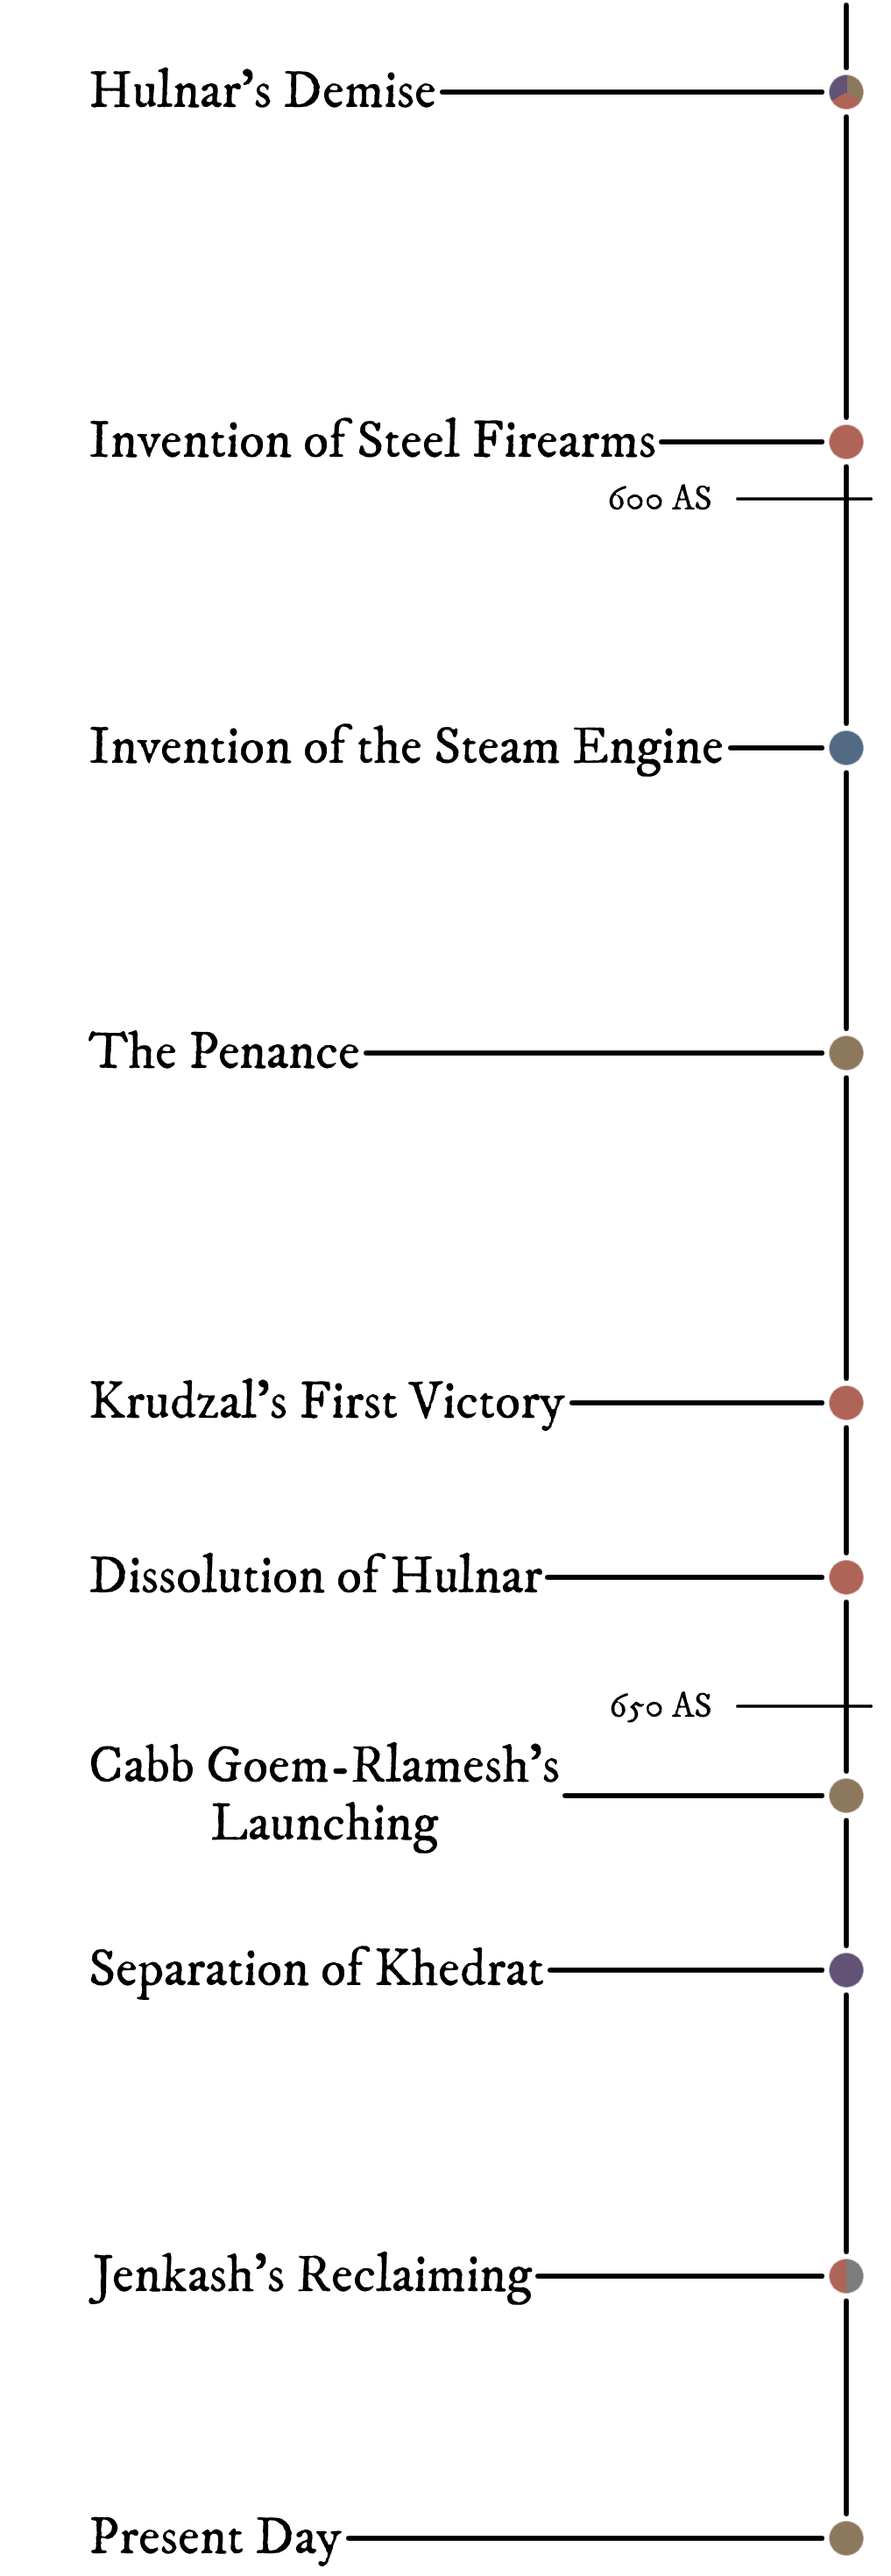
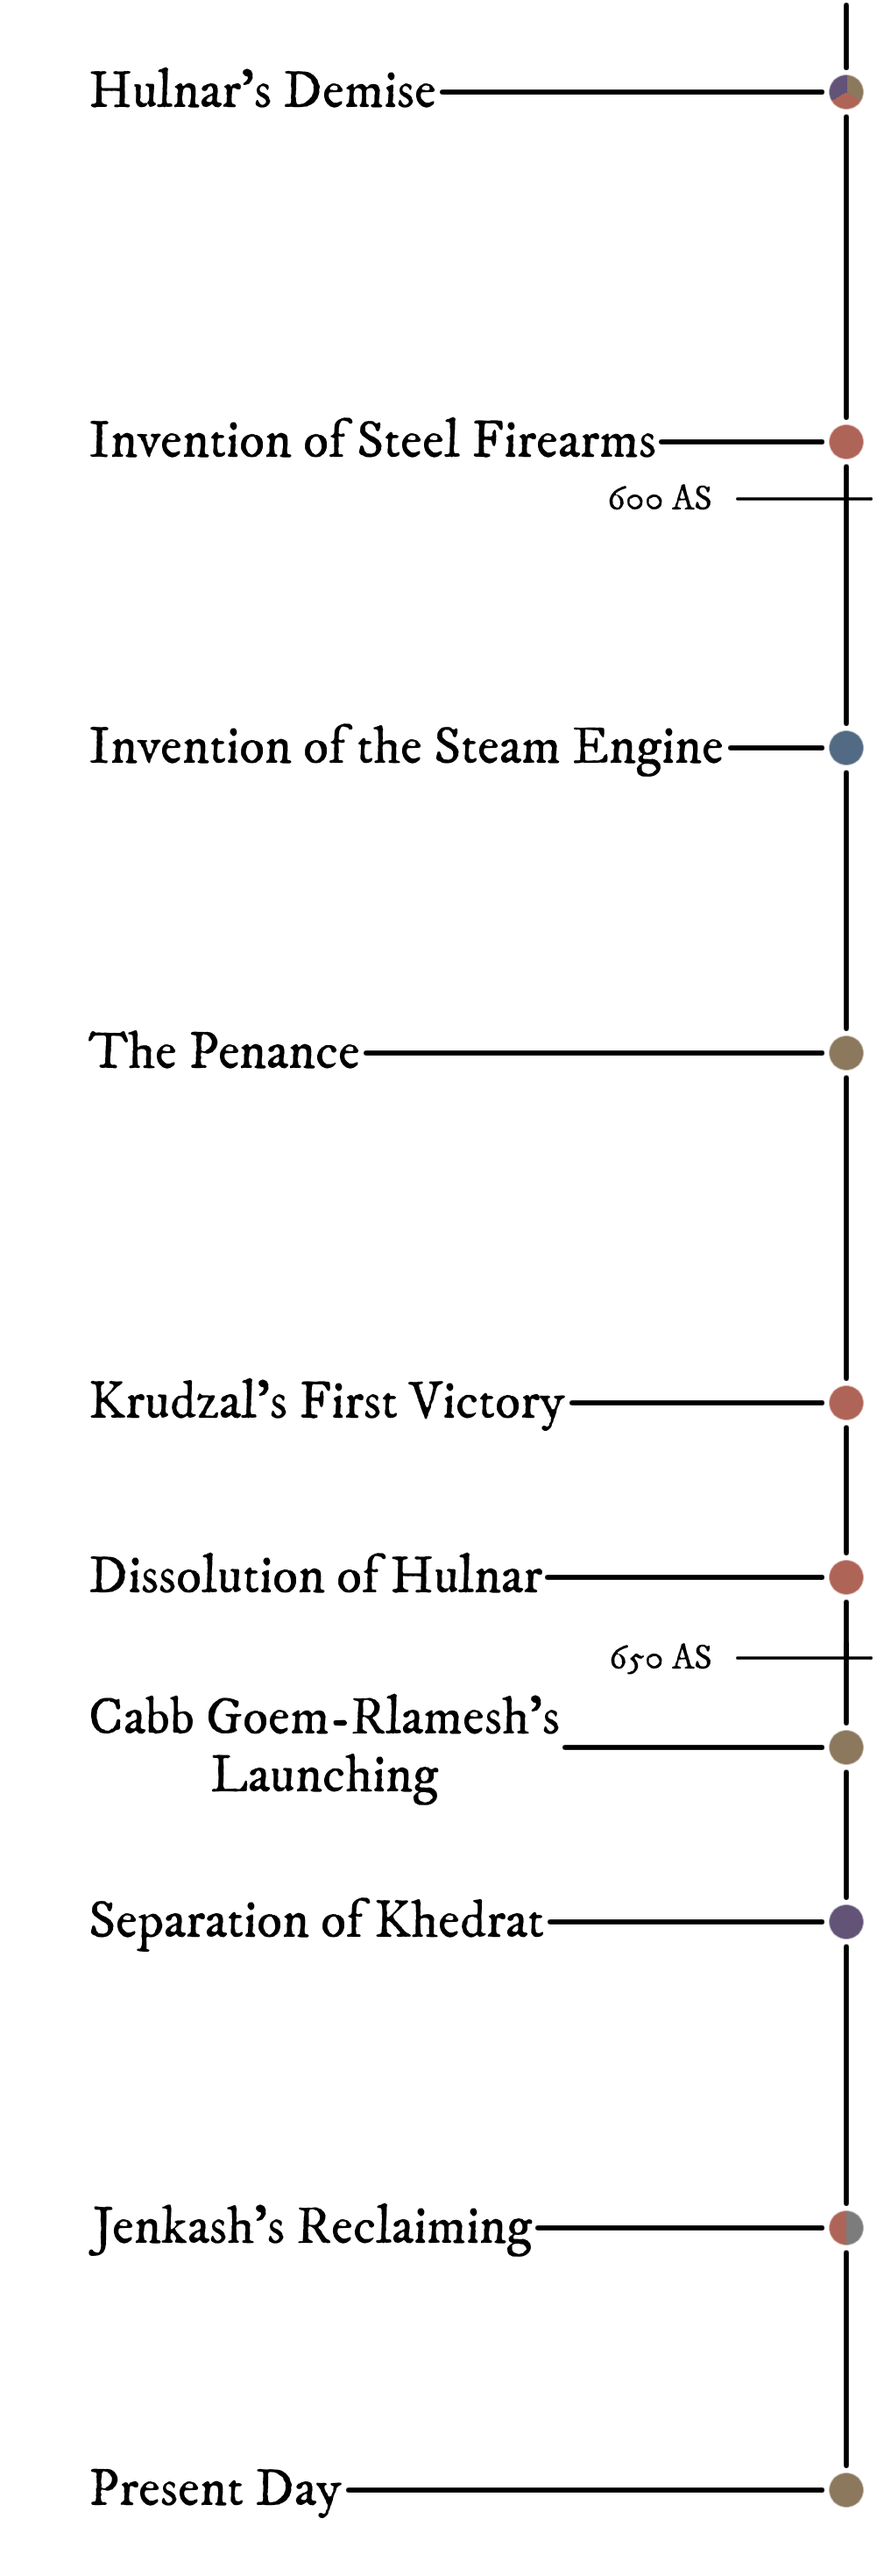
Attended more TODOs (this is my life now)

diff --git a/01yuadrem/14beryl_sea.tex b/01yuadrem/14beryl_sea.tex
@@ -17,9 +17,8 @@ The jungle is also inhabited by large and dangerous beasts that threaten the unp
 East to Drejeck is the Fog Gorge, a well-forested canyon island ever enveloped in fog.
 While primitive, the tribes of Gannag are far from free-living, and are bound by strong shackles to their superiors.
 While naenks are used to this hierarchical system, many of the more intelligent tsaneks grow tired of it over time.
-A hundred years ago, a group of tsaneks went as far as to establish their own independent tribe of Na'ane in the misty island, abandoning their brethren in favor of an unrestrained lifestyle.
+A hundred and fifty years ago, a group of tsaneks went as far as to establish their own independent tribe of Na'ane in the misty island, abandoning their brethren in favor of an unrestrained lifestyle.
 Freely they carry on with their ceremonies and rituals, protected from their neighbors by mist and stone.
-% Na'ane was founded on 582 AS.
 
 % Qul archipelago
 Further east one finds the Qul archipelago, a clump of islands that collectively served as the birth bed of the Jenkashian empire.
@@ -44,7 +43,7 @@ This everlasting conflict was only stopped by Jenkash, who in their thirst for c
 \begin{figure}[t]
     \centering
     \includegraphics[width=0.46\textwidth]{01yuadrem/img/14fog_gorge.png}
-    \caption*{\centering \large{\textbf{The Fog Gorge}}} % TODO. Check if I can change the font of the caption
+    \caption*{\centering \large{\textbf{The Fog Gorge}}}
 \end{figure}
 
 % Ironlakes Island & Zashlath savanna

diff --git a/01yuadrem/30history.tex b/01yuadrem/30history.tex
@@ -5,8 +5,6 @@
 
 \section{History} \label{sec::history}
 % History is known in detail thanks to the dutiful oths that recorded it under Tol's guidance.
-% TODO. Take a look at the whole cultures and Yuadrem pages and fix years and nation names!
-% TODO. Update the picture in the last page, it doesn't fit with the info anymore.
 
 \subsection*{Ancient History}
 \subparagraph{682 BS --- First Communion} In the middle of the Dead Sea, the et E'ukarilth merges with a deceased higher one embryo.
@@ -219,6 +217,6 @@ Abandoning old traditions, the new countries of Viphogher and Dnomit embrace dem
 \subparagraph{671 AS --- Jenkash's Reclaiming} Forced by Gannag to halt their conquest, the Jenkashian empire focused entirely on re-taking the Qul Archipelago.
 Savage battles are fought, and to date they've managed to reclaim most of their lost homeland.
 
-\subparagraph{672 AS --- Present Day}
+\subparagraph{673 AS --- Present Day}
 
-\pagebreak
+\newpage

diff --git a/01yuadrem/21religions.tex b/01yuadrem/21religions.tex
@@ -22,7 +22,7 @@ Indicated by a torch, the indigo tide tells of the truth revealed under light, a
 A broken compass represents the red tide, representing the roaming of those who walk without roads.
 The silver tide's symbol is a bell, denoting the attention obtained by those who seek fame.
 
-Nearing the year 247 AS, the knowledge of the tides split the Ignelli school in two - The Igneists and the Rashiists.
+Nearing the year 174 AS, the knowledge of the tides split the Ignelli school in two - The Igneists and the Rashiists.
 % The Zelseists, who simply sought to further understand this new discovery, and the Rashiists, who attempted to wield and manipulate them.
 The latter created a system of magic known as Rashid, with which they could potentiate the tidal alignment of others.
 Despite the warnings issued by their sister school, the Rashiists honed their craft to its maximal potency, and suffered severely from it.

diff --git a/01yuadrem/13whalers_sea.tex b/01yuadrem/13whalers_sea.tex
@@ -3,7 +3,7 @@
 \begin{figure}[t]
     \centering
     \includegraphics[width=0.46\textwidth]{01yuadrem/img/13siszgoel.png}
-    \caption*{\centering \large{\textbf{Siszgoel, Kaldrathal's Capital}}} % TODO. Check if I can change the font of the caption
+    \caption*{\centering \large{\textbf{Siszgoel, Kaldrathal's Capital}}}
 \end{figure}
 
 \subsection*{Whaler's Sea} \label{ssec::whalerssea}
